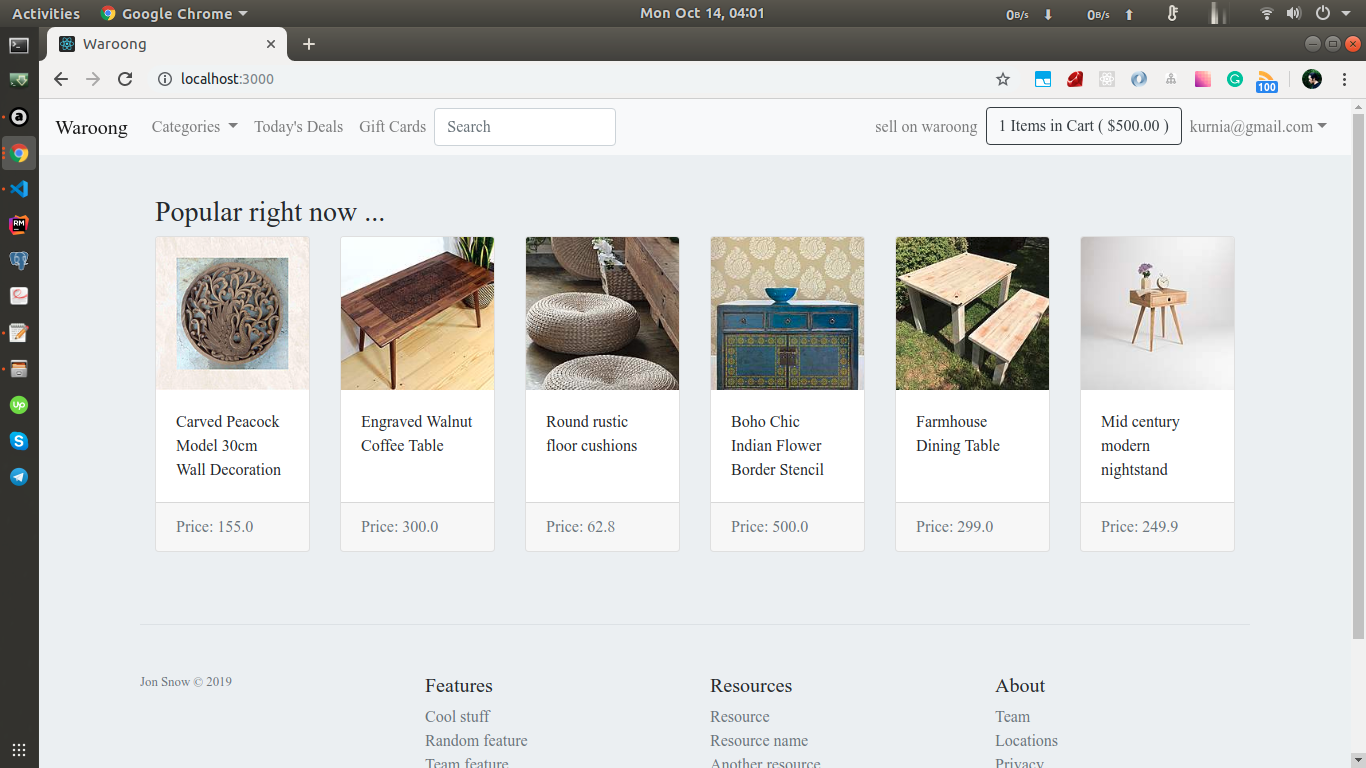
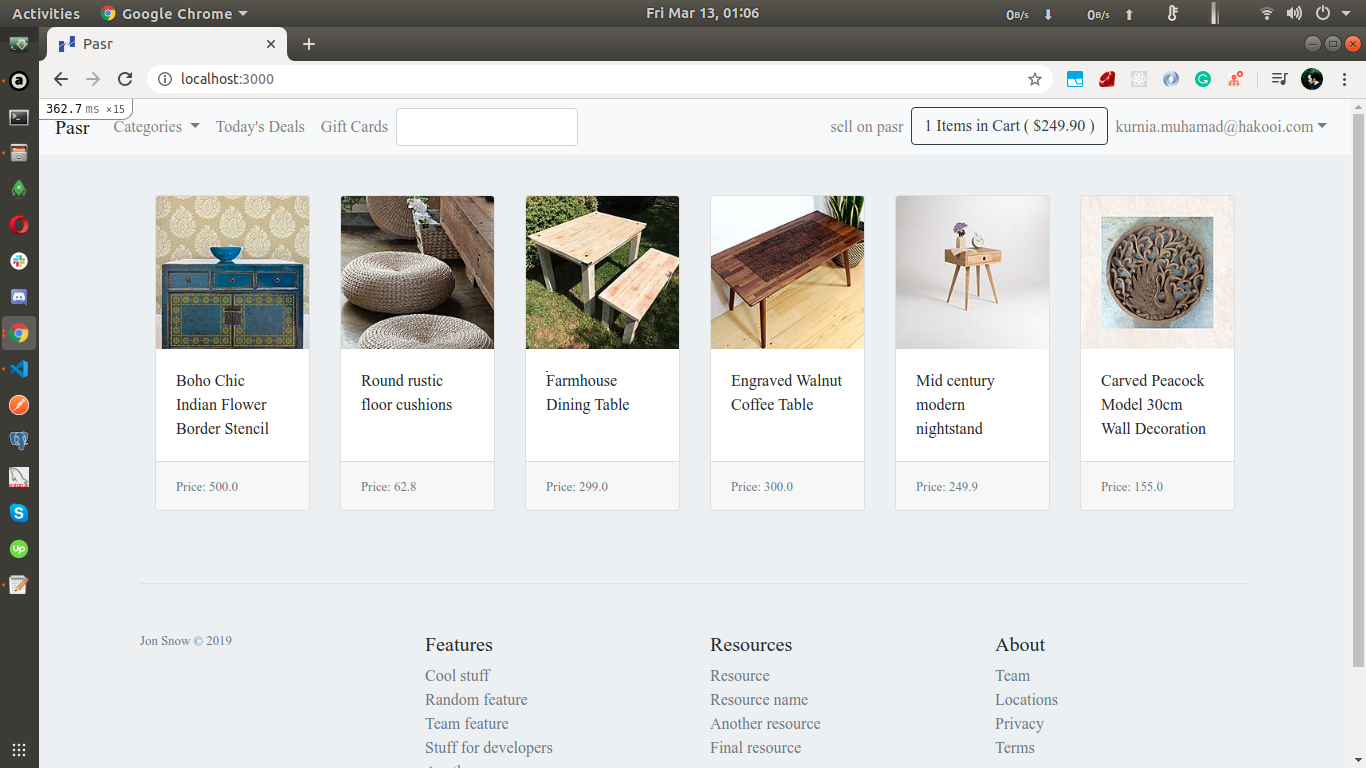
Update pasr label

diff --git a/config/application.rb b/config/application.rb
@@ -17,7 +17,7 @@ require "sprockets/railtie"
 # you've limited to :test, :development, or :production.
 Bundler.require(*Rails.groups)
 
-module Waroong
+module Pasr
   class Application < Rails::Application
     # Initialize configuration defaults for originally generated Rails version.
     #config.load_defaults 6.0
